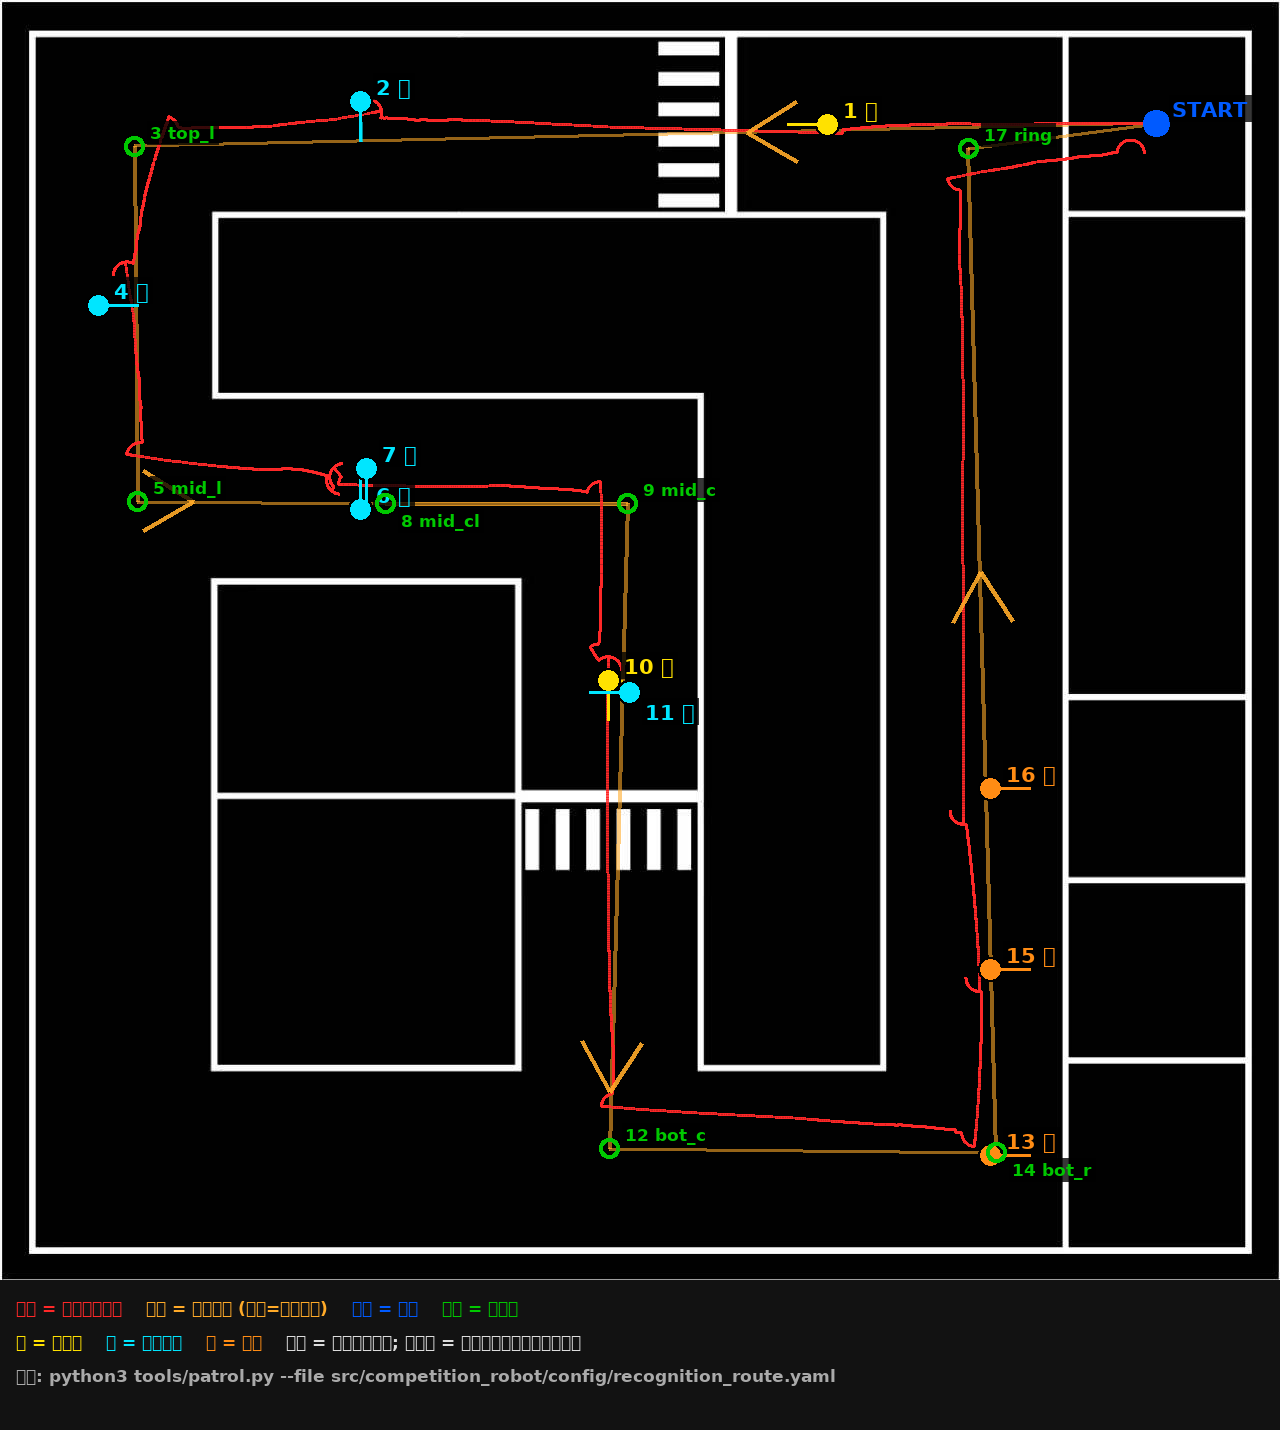
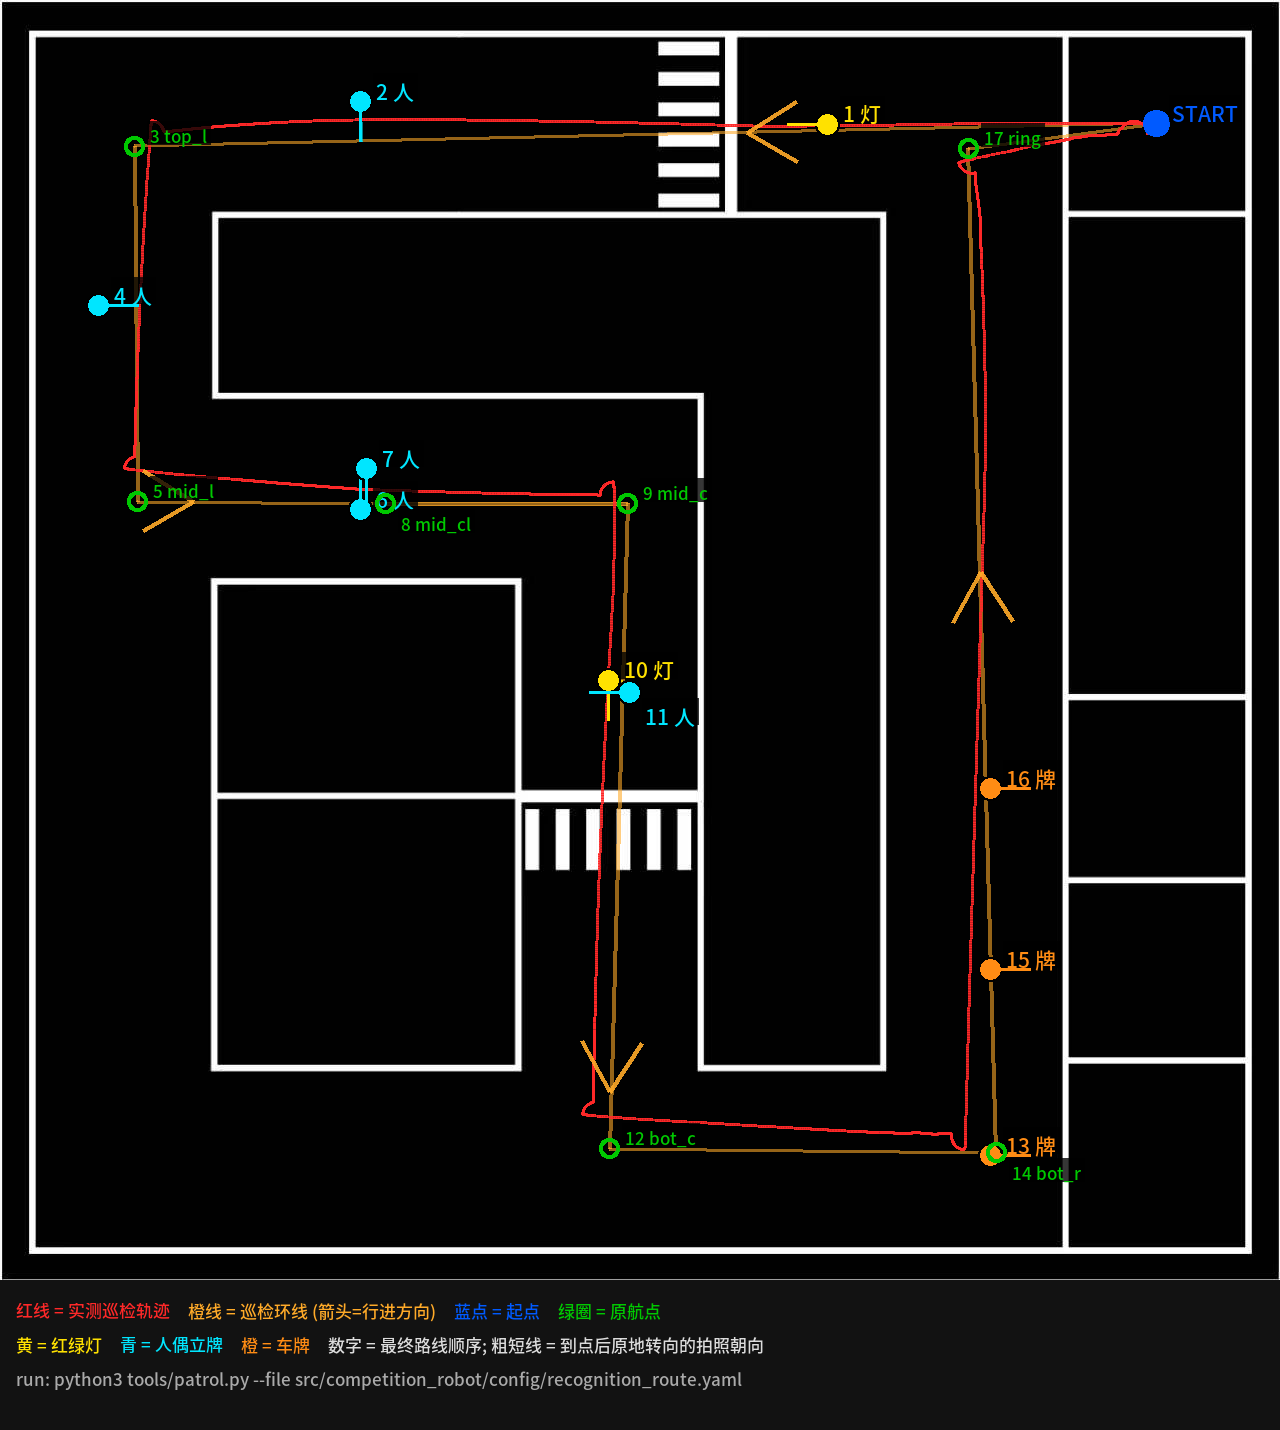
画图脚本: 中文字体自动探测/回退英文 (WSL 上中文变方块的问题)
- 新增 tools/cnfont.py: 探测 Noto CJK/WQY/文泉驿/PingFang/微软雅黑, 找不到就回退
  英文字体 + 英文标签 (NO_CJK=1 可强制英文)
- gen_recognition_route.py / show_captures.py / plot_trace.py 改为中英自适应,
  编号/坐标/文件名等关键信息本来就都是 ASCII, 所以英文版同样能读
- docs/wsl_setup.md: 依赖里补 fonts-noto-cjk (不装也能跑)

diff --git a/tools/gen_recognition_route.py b/tools/gen_recognition_route.py
@@ -50,20 +50,17 @@ C_TASK = {'traffic_light': (255, 225, 0), 'standee': (0, 230, 255),
 TASK_CN = {'traffic_light': '红绿灯', 'standee': '人偶', 'plate': '车牌'}
 PREFIX = {'traffic_light': 'T', 'standee': 'S', 'plate': 'P'}
 SHORT = {'traffic_light': '灯', 'standee': '人', 'plate': '牌'}
+SHORT_EN = {'traffic_light': 'TL', 'standee': 'P', 'plate': 'PL'}
+
+
+from cnfont import load as _load_font, pick as _pick       # noqa: E402
 
 
 def font(size, cjk=False):
-    paths = (['/usr/share/fonts/opentype/noto/NotoSansCJK-Medium.ttc']
-             if cjk else []) + [
-        '/usr/share/fonts/truetype/dejavu/DejaVuSans-Bold.ttf',
-        '/usr/share/fonts/truetype/dejavu/DejaVuSans.ttf']
-    for p in paths:
-        if os.path.exists(p):
-            try:
-                return ImageFont.truetype(p, size)
-            except Exception:
-                pass
-    return ImageFont.load_default()
+    """★ 没有中文字体时自动回退到英文字体 (见 tools/cnfont.py)。
+    返回值兼容老用法: 直接当字体对象用; 中文标签请配合 CJK_OK 判断。"""
+    f, _ok = _load_font(size)
+    return f
 
 
 def text_w(d, txt, f):
@@ -169,6 +166,9 @@ def main():
     img.paste(base, (0, 0))
     d = ImageDraw.Draw(img, 'RGBA')
     f_mid, f_sm = font(21, True), font(17, True)
+    _, CJK = _load_font(17)
+    if not CJK:
+        print('  · 这台机器没有中文字体, 图上的说明改用英文 (装 fonts-noto-cjk 可恢复中文)')
 
     def P(x, y):
         return (x2px(x), y2py(y))
@@ -244,7 +244,9 @@ def main():
             L2 = 40
             d.line([(px, py), (px + L2 * math.cos(-it['yaw']), py + L2 * math.sin(-it['yaw']))],
                    fill=col + (255,), width=3)
-            put_label(px, py, '%d %s' % (it['order'], SHORT[it['task']]), col, big=True)
+            put_label(px, py, '%d %s' % (it['order'], _pick(SHORT[it['task']],
+                                                            SHORT_EN[it['task']], CJK)),
+                      col, big=True)
         else:
             col = C_WP
             d.ellipse([px - 10, py - 10, px + 10, py + 10], outline=col + (255,), width=4)
@@ -252,13 +254,19 @@ def main():
 
     # 图例 (地图下方, 不挡地图)
     d.rectangle([0, MAP, MAP, MAP + LEG], fill=(18, 18, 18))
+    def L(zh, en):
+        return _pick(zh, en, CJK)
     lines = [
-        [('红线 = 实测巡检轨迹', C_TRACE), ('   橙线 = 巡检环线 (箭头=行进方向)', C_LOOP),
-         ('   蓝点 = 起点', C_START), ('   绿圈 = 原航点', C_WP)],
-        [('黄 = 红绿灯', C_TASK['traffic_light']), ('   青 = 人偶立牌', C_TASK['standee']),
-         ('   橙 = 车牌', C_TASK['plate']),
-         ('   数字 = 最终路线顺序; 粗短线 = 到点后原地转向的拍照朝向', (220, 220, 220))],
-        [('跑法: python3 tools/patrol.py --file src/competition_robot/config/recognition_route.yaml',
+        [(L('红线 = 实测巡检轨迹', 'red = actual driven path'), C_TRACE),
+         (L('   橙线 = 巡检环线 (箭头=行进方向)', '   orange = planned loop (arrows = direction)'), C_LOOP),
+         (L('   蓝点 = 起点', '   blue = start'), C_START),
+         (L('   绿圈 = 原航点', '   green ring = original waypoint'), C_WP)],
+        [(L('黄 = 红绿灯', 'yellow = traffic light'), C_TASK['traffic_light']),
+         (L('   青 = 人偶立牌', '   cyan = standee'), C_TASK['standee']),
+         (L('   橙 = 车牌', '   orange = plate'), C_TASK['plate']),
+         (L('   数字 = 最终路线顺序; 粗短线 = 到点后原地转向的拍照朝向',
+            '   number = route order; short bar = shooting heading'), (220, 220, 220))],
+        [('run: python3 tools/patrol.py --file src/competition_robot/config/recognition_route.yaml',
           (170, 170, 170))],
     ]
     for r, row in enumerate(lines):

diff --git a/tools/cnfont.py b/tools/cnfont.py
@@ -1,0 +1,83 @@
+#!/usr/bin/env python3
+# -*- coding: utf-8 -*-
+"""中文字体探测 —— 让画图脚本在任何机器上都不会出现"方块豆腐"。
+
+背景: tools/*.py 里画图用的是 PIL。原来到处 hardcode Noto CJK 的路径, 找不到就回退
+      到 DejaVuSans —— 而 DejaVu **没有中文字形**, 于是图上所有中文都变成方块 □□□
+      (在 WSL / 精简发行版上必现)。
+
+用法:
+    from cnfont import load, pick
+    f, cjk = load(20)                 # f 是字体对象, cjk 表示这台机器能不能显示中文
+    draw.text((x, y), pick('红绿灯', 'traffic light', cjk), font=f, fill=...)
+
+约定: **中文只用于"人看的说明"**, 关键信息(编号/坐标/文件名)都用 ASCII,
+      这样即使没有中文字体, 图也能读懂。
+"""
+from __future__ import annotations
+
+import os
+
+from PIL import ImageFont
+
+# 常见的中文字体位置 (按优先级)
+CJK_CANDIDATES = [
+    '/usr/share/fonts/opentype/noto/NotoSansCJK-Medium.ttc',
+    '/usr/share/fonts/opentype/noto/NotoSansCJK-Regular.ttc',
+    '/usr/share/fonts/opentype/noto/NotoSansCJK-DemiLight.ttc',
+    '/usr/share/fonts/truetype/noto/NotoSansCJK-Regular.ttc',
+    '/usr/share/fonts/truetype/wqy/wqy-zenhei.ttc',
+    '/usr/share/fonts/truetype/wqy/wqy-microhei.ttc',
+    '/usr/share/fonts/truetype/arphic/uming.ttc',
+    '/System/Library/Fonts/PingFang.ttc',                      # macOS
+    'C:/Windows/Fonts/msyh.ttc',                               # Windows
+    'C:/Windows/Fonts/simhei.ttf',
+]
+LATIN_CANDIDATES = [
+    '/usr/share/fonts/truetype/dejavu/DejaVuSans-Bold.ttf',
+    '/usr/share/fonts/truetype/dejavu/DejaVuSans.ttf',
+    '/usr/share/fonts/truetype/liberation/LiberationSans-Bold.ttf',
+]
+
+
+def find_cjk():
+    """返回一个**存在且真的能显示中文**的字体路径, 找不到返回 None。
+
+    设 `NO_CJK=1` 可以强制走英文标签 (测试用, 或者就想要纯英文图)。"""
+    if os.environ.get('NO_CJK'):
+        return None
+    for p in CJK_CANDIDATES:
+        if not os.path.exists(p):
+            continue
+        try:
+            f = ImageFont.truetype(p, 20)
+            # 真检查一下字形覆盖: 用 fontTools 太重的就跳过, 这里只确认能加载
+            return p
+        except Exception:
+            continue
+    return None
+
+
+_CACHE = {}
+
+
+def load(size, cjk_only=False):
+    """返回 (font, cjk_ok)。cjk_ok=False 时调用方应该改用英文标签 (pick)。"""
+    key = (size, cjk_only)
+    if key in _CACHE:
+        return _CACHE[key]
+    p = find_cjk()
+    ok = p is not None
+    path = (p if ok else None) or next((q for q in LATIN_CANDIDATES if os.path.exists(q)), None)
+    try:
+        f = ImageFont.truetype(path, size) if path else ImageFont.load_default()
+    except Exception:
+        f = ImageFont.load_default()
+        ok = False
+    _CACHE[key] = (f, ok)
+    return f, ok
+
+
+def pick(zh, en, cjk_ok):
+    """有中文字体就用中文, 没有就用英文。"""
+    return zh if cjk_ok else en

diff --git a/tools/plot_trace.py b/tools/plot_trace.py
@@ -22,11 +22,8 @@ from map_pixels import SRC, x2px, y2py, px2x, px2y   # noqa: E402
 
 
 def font(sz=16):
-    for p in ('/usr/share/fonts/truetype/dejavu/DejaVuSans.ttf',
-              '/usr/share/fonts/truetype/liberation/LiberationSans-Regular.ttf'):
-        if os.path.exists(p):
-            return ImageFont.truetype(p, sz)
-    return ImageFont.load_default()
+    from cnfont import load as _load_font
+    return _load_font(sz)[0]
 
 
 def load_trace(path):
@@ -83,8 +80,12 @@ def main():
             d.ellipse([px - r - 6, py - r - 6, px + r + 6, py + r + 6],
                       outline=(255, 0, 255, 255), width=3)
         d.text((px + r + 4, py - 12), '%d' % i, fill=(0, 160, 0) if not click else (255, 0, 255), font=f)
-    d.text((12, 12), '红线=实际轨迹 蓝点=起点  绿圈=航点(1..%d)  紫圈=打圈的点'
-           % len(wps), fill=(255, 255, 0), font=fs)
+    from cnfont import load as _lf, pick as _pick
+    _, CJK = _lf(16)
+    d.text((12, 12), _pick('红线=实际轨迹 蓝点=起点  绿圈=航点(1..%d)  紫圈=打圈的点',
+                           'red=actual path  blue=start  green ring=waypoint(1..%d)  '
+                           'magenta=ring', CJK) % len(wps),
+           fill=(255, 255, 0), font=fs)
     img.save(a.out)
     print('轨迹图 -> %s   (%d 个轨迹点, %d 个航点)' % (a.out, len(tr), len(wps)))
 

diff --git a/tools/show_captures.py b/tools/show_captures.py
@@ -21,12 +21,12 @@ from PIL import Image, ImageDraw, ImageFont
 WS = os.path.dirname(os.path.dirname(os.path.abspath(__file__)))
 
 
+sys.path.insert(0, os.path.dirname(os.path.abspath(__file__)))
+from cnfont import load as _load_font, pick as _pick       # noqa: E402
+
+
 def font(size):
-    for p in ('/usr/share/fonts/opentype/noto/NotoSansCJK-Medium.ttc',
-              '/usr/share/fonts/truetype/dejavu/DejaVuSans-Bold.ttf'):
-        if os.path.exists(p):
-            return ImageFont.truetype(p, size)
-    return ImageFont.load_default()
+    return _load_font(size)[0]
 
 
 def latest_run(root):
@@ -77,7 +77,7 @@ def main():
     H = rowsn * (th + cap_h + pad) + pad
     sheet = Image.new('RGB', (W, H), (24, 24, 28))
     d = ImageDraw.Draw(sheet)
-    f = font(17)
+    f, CJK = _load_font(17)
     for i, (tgt, task, truth, fn) in enumerate(items):
         p = os.path.join(run, fn)
         if not os.path.exists(p):
@@ -89,7 +89,7 @@ def main():
         sheet.paste(im, (x, y))
         cap = '%s' % tgt
         if truth:
-            cap += '  真值:%s' % truth
+            cap += _pick('  真值:%s', '  truth:%s', CJK) % truth
         d.text((x + 2, y + th + 6), cap, fill=(230, 230, 120), font=f)
     out = a.out or os.path.join(run, 'overview.png')
     sheet.save(out)

diff --git a/docs/wsl_setup.md b/docs/wsl_setup.md
@@ -33,6 +33,9 @@ sudo apt install -y ros-noetic-gmapping ros-noetic-slam-karto \
 # tools/*.py 依赖 (系统 python)
 sudo apt install -y python3-numpy python3-yaml python3-pil \
                     python3-opencv ros-noetic-cv-bridge
+# 画图脚本的中文字体 (不装的话图上中文会变成方块 □□□)
+#   没装也能跑: tools/cnfont.py 会自动改用英文标签, 图照样能读
+sudo apt install -y fonts-noto-cjk
 # 可选
 sudo apt install -y ros-noetic-teleop-twist-keyboard        # 键盘遥控
 sudo apt install -y ros-noetic-cartographer-ros             # 复赛加分项 (官方点名)
